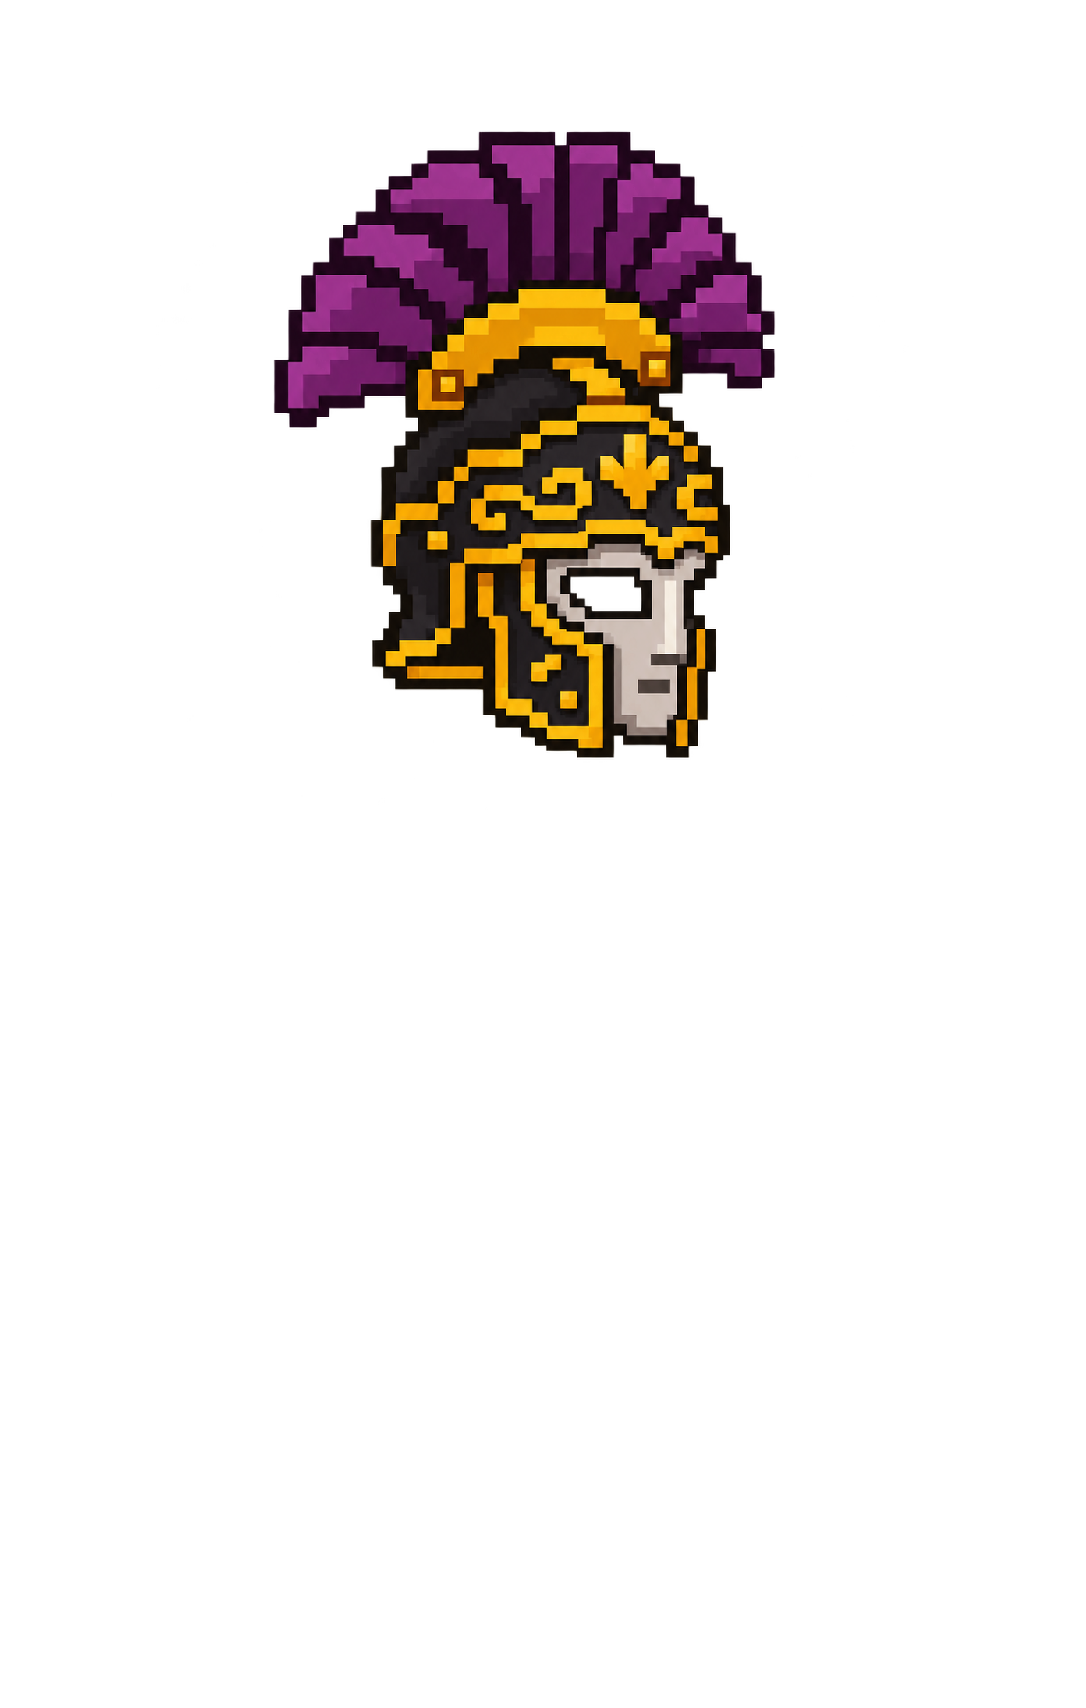
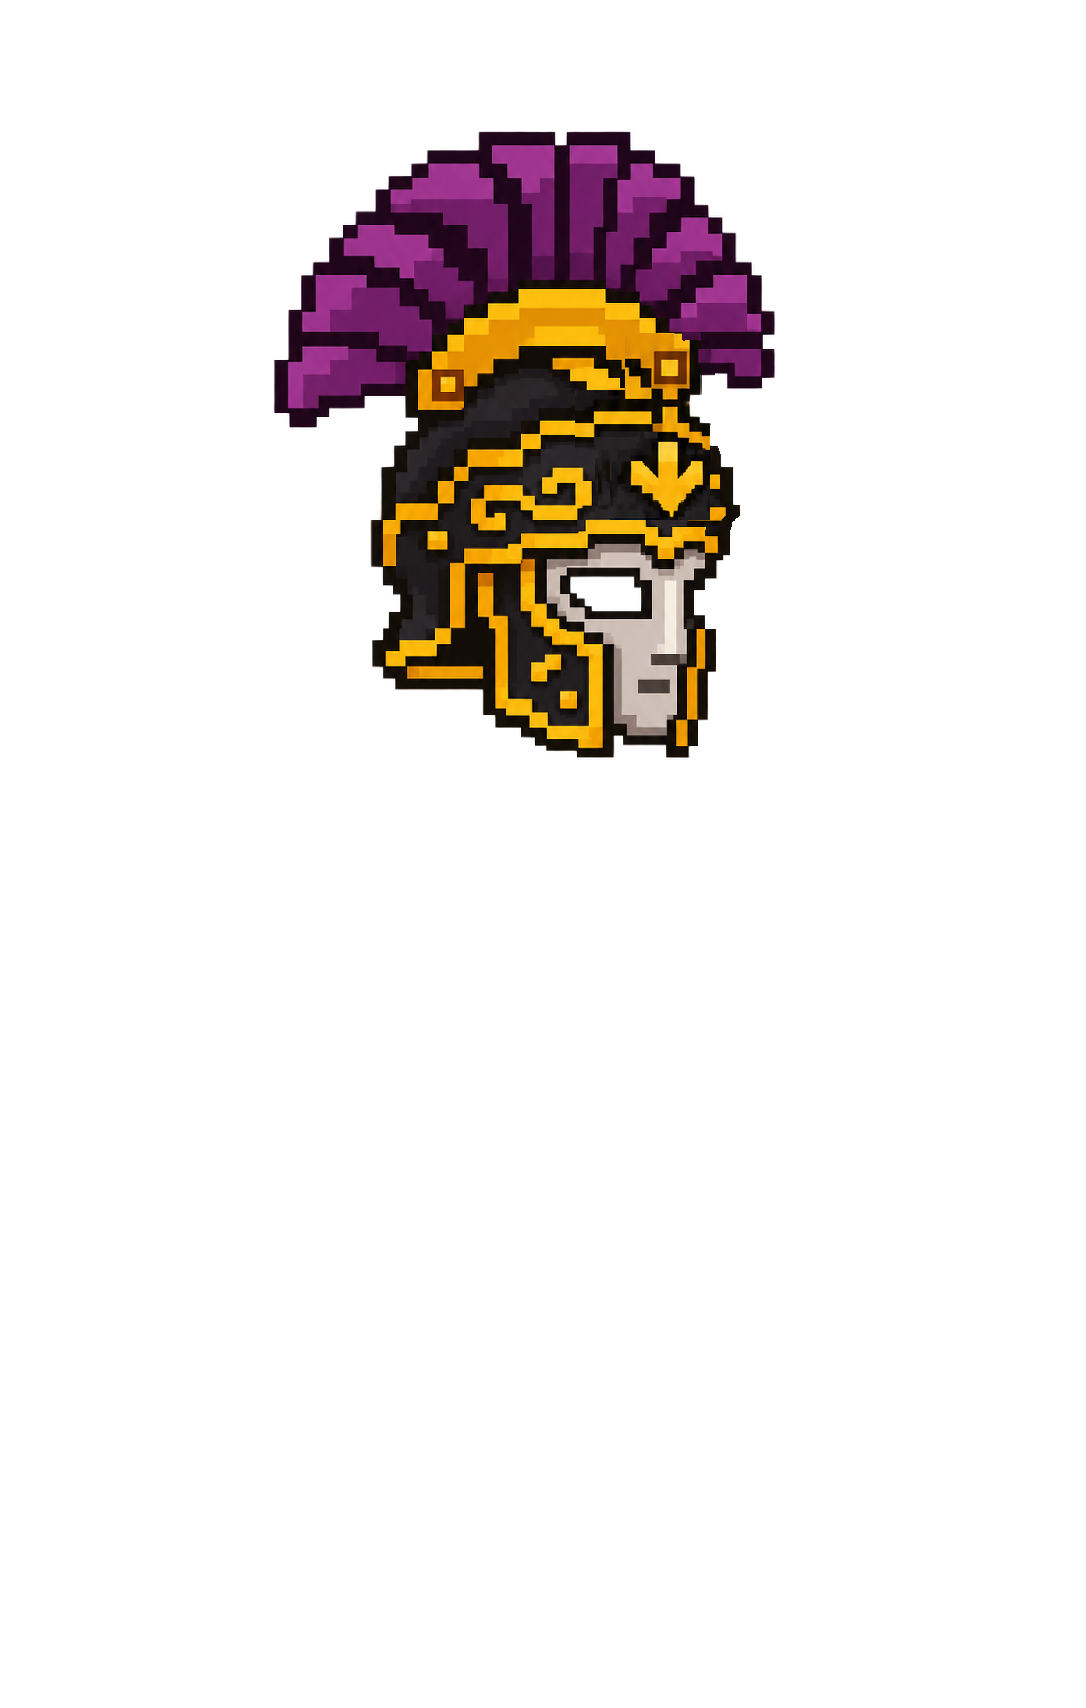
fix: 黒金・紫の兜の中心合わせを正式反映 (#151)

Changed region(s): [[0.5166, 0.1862, 0.6989, 0.3103]]

diff --git a/docs/01_ゲーム企画・基本設計書.md b/docs/01_ゲーム企画・基本設計書.md
@@ -19,6 +19,7 @@
 - 着脱版の銀・角付きは耳と襟足を広く覆い、頬から襟足まで継ぎ目のない銀板としてつなげる。金・一本角は襟足の覆いと外へ反った縁を低い位置に置き、縁を浅くして襟足側の濃い茶色を抑える。角先は画像の右へ少し曲げる。着用時の後ろ髪は他の兜と同様に非表示とする。どちらも承認済みのパーツを使用し、頭部サイズ・共通人物を維持する。銀・角付きの鼻当て・縦帯と顔まわりは次項の調整を適用する。
 - 着脱版の銀・角付きは、鼻当ての先をまっすぐにし、その位置に頭頂から続くリベット付き縦帯を合わせる。右側輪郭と額の独立した黒点を整理した承認済みパーツを使う。局所合成で生じた内部の透過スジと薄い残留画素は、RGBを変えずアルファだけを補正する。右側の黒い陰影は薄くする前の案を採用し、角・頬当て・人物のバランスを保つ。
 - 着脱版の黒・赤い鶏冠は、一本角に近い帽体・頬当て・鼻当ての釣り合いへ調整した承認済みパーツを使う。
+- 着脱版の黒金・紫は、帽体の前側を控えめに膨らませ、額の下向きのマークと上側の金色の留め具を、仮面の鼻筋に沿う同じ縦軸へ寄せた承認済みパーツを使う。白い仮面・目・顎・羽飾り・人物の位置は保持する。比較試案の青い中心線は公開画面へ追加しない。
 - 全6兜で後ろ髪と髪の根元の補正を描かず、人物素材に残っていた襟足側の髪片も共通の装備時人物画像から除去済みとする。首・肩の形と体格、兜の意匠は保持する。兜なしと半透明比較は従来どおり元の顔と髪型を使用する。
 - サイズ比較ページは基準の顔と各兜の顔周りを同じ座標・倍率で並べる。通常表示と元の顔への半透明表示、頭頂・額・後頭部・耳側・鼻先・目・顎・兜の端の基準線のON/OFFを切り替えられる。ラベル文字のON/OFFは別に切り替えられ、初期表示では線・文字ともに表示する。線を隠すと文字も隠れて文字切替を無効にし、線を再表示したときは文字の選択状態を保つ。ラベルは「頭頂」「額」「後頭部」「耳側」「鼻先」「目」「顎」「兜の端」とし「（目安）」を付けない。「後頭部」「耳側」「鼻先」「兜の端」の文字は、画像上端の対応する縦線の位置に沿って左からこの順に置く。文字が画像に重ならないよう上側にラベル欄を設け、小さな枠でははみ出さず折り返す。文字や線の非表示時も上側欄の高さを保ち、画像の上下位置を変えない。基準線は表示サイズによらず一定の太さで重ねる。頭頂は髪を含む目安。額の横線は目から顎までと同じ距離だけ目の上に、後頭部の縦線は比較枠の左端と耳側の線の中間に置く。兜の端の縦線は、鼻先から比較枠右端までを3等分した鼻先寄りの位置に置く。いずれも補助的な目安で、実際の頭蓋骨の輪郭を確定するものではない。線は兜ごとに動かさない。
 - 比較対象は着脱版と同じ装備データから取得する。新しい兜を装備データへ追加すると、比較画面にも名前・画像が反映される。通常の合成処理も着脱版と共通にする。比較ページから装備画像を編集する機能は設けない。
@@ -56,11 +57,14 @@
 - 2026-11-21：黒・赤い鶏冠の帽体・頬当て・鼻当てを一本角との比較で調整し、承認済みの後ろ髪なしの姿を着脱版へ登録する（#143）。鼻当てを曲げた案は取り消し、まっすぐな形を採用。共通の合成で比較ページ・保存PNGにも反映する。型検査・通常/Pages用ビルド、全7状態の保存、全6兜の通常/透過比較、基準線・狭い画面・読込失敗/復帰を確認した。黒赤の保存PNGは承認画像と全画素一致。公開URLでの反映はマージ後に確認する。
 - 2026-11-21：全6兜の着用時の後ろ髪を非表示に統一する（#146）。装備時の共通人物へ髪片除去を焼き込み、元の首・肩の輪郭を保持し、金・一本角の髪の根元を重ねる処理も使わない。着脱版・比較ページの通常表示・保存PNGが対象で、兜なしと元の顔への透過比較、元の全身画像切替版は維持する。人物の髪片除去を元の首・肩の輪郭へなじませ、補正境界と範囲外の画素一致を確認。全7状態の保存PNG・全6兜の通常/透過比較が期待合成と全画素一致し、6種の後ろ髪なし・首肩保持を目視確認した。型検査・通常/Pages用ビルド、読込失敗/再試行・高速切替・390px表示・56基準線を確認済み。公開URLでの反映はマージ後に確認する。
 - 2026-11-22：銀・角付きの鼻当てと縦帯の軸を整え、右側輪郭と額の点を整理した承認済みパーツを登録する（#148）。陰影を薄くした案は採用せず、整理後の濃い陰影を保持。着脱版・比較ページ・保存PNGとサムネイルへ反映する。採用元とのRGB一致と内部透過スジの補正、全7状態の保存と全6兜の通常/透過比較、サムネイル・56基準線・390px・読込失敗/再試行・通常/Pages用ビルドを確認済み。公開URLはマージ後に確認する。
+- 2026-11-22：黒金・紫の帽体前側と額の下向きのマーク・上側の金色の留め具を整えた中心合わせ案を登録する（#151）。承認済みパーツを着脱版・比較ページ・保存PNGとサムネイルへ反映する。全7状態の保存と全6兜の通常/半透明比較、56基準線・390px幅・読込失敗/再試行・通常/Pages用ビルドを確認済み。黒金・紫の保存PNGは承認画像と全画素一致。試案の青い中心線は公開画面へ追加しない。公開URLへの反映はマージ後に確認する。
 - 戦闘の構想や承認履歴は過去資料とGit履歴に保存する。現行の装備室の制約や次の作業として自動的に引き継がない。将来戦闘を再開する場合は、その時点で参照する。
 
 ## 14. 現在の状態と次の検討
 
-- #148 の鼻当て・縦帯と右側輪郭・額の点を整理した銀・角付き兜を承認済み。陰影を薄くする前のパーツを採用し、着脱版・比較ページ・保存へ登録する。採用元とのRGB一致・透過スジ補正、全候補の保存・通常/透過比較・失敗/再試行・390px・通常/Pages用ビルドを確認済み。公開URLは未確認（PR未マージ）。レビューと公開確認は対応Issue・PRに記録する。
+- #151 の黒金・紫の中心合わせ案を承認済み。額の下向きのマークと上側の金色の留め具を同じ軸へ寄せたパーツとサムネイルを着脱版・比較ページ・保存PNGへ登録する。元の全身画像切替版は別素材のまま維持する。検証・レビュー・公開確認は対応Issue・PRに記録する。
+
+- #148 の銀・角付き兜はPR #150でマージ済み。陰影を薄くする前のパーツを採用し、鼻当て・縦帯と右側輪郭・額の点を整理した。採用元とのRGB一致・透過スジ補正、全候補の保存・通常/透過比較・失敗/再試行・390px・通常/Pages用ビルドを確認済み。公開確認は対応Issue・PRに記録する。
 
 - #146 で全6兜の着用時の後ろ髪を非表示に統一する。ユーザー指定の対象は着脱版・比較ページだけ。元の全身画像切替版・兜なし・元の顔を使う半透明比較を維持する。全候補の保存・比較・読込失敗/再試行・高速切替・390px表示・通常/Pages用ビルドを確認済み。PR #147 はマージ・公開反映の確認済み。レビューと公開確認は対応Issueへ記録する。
 
